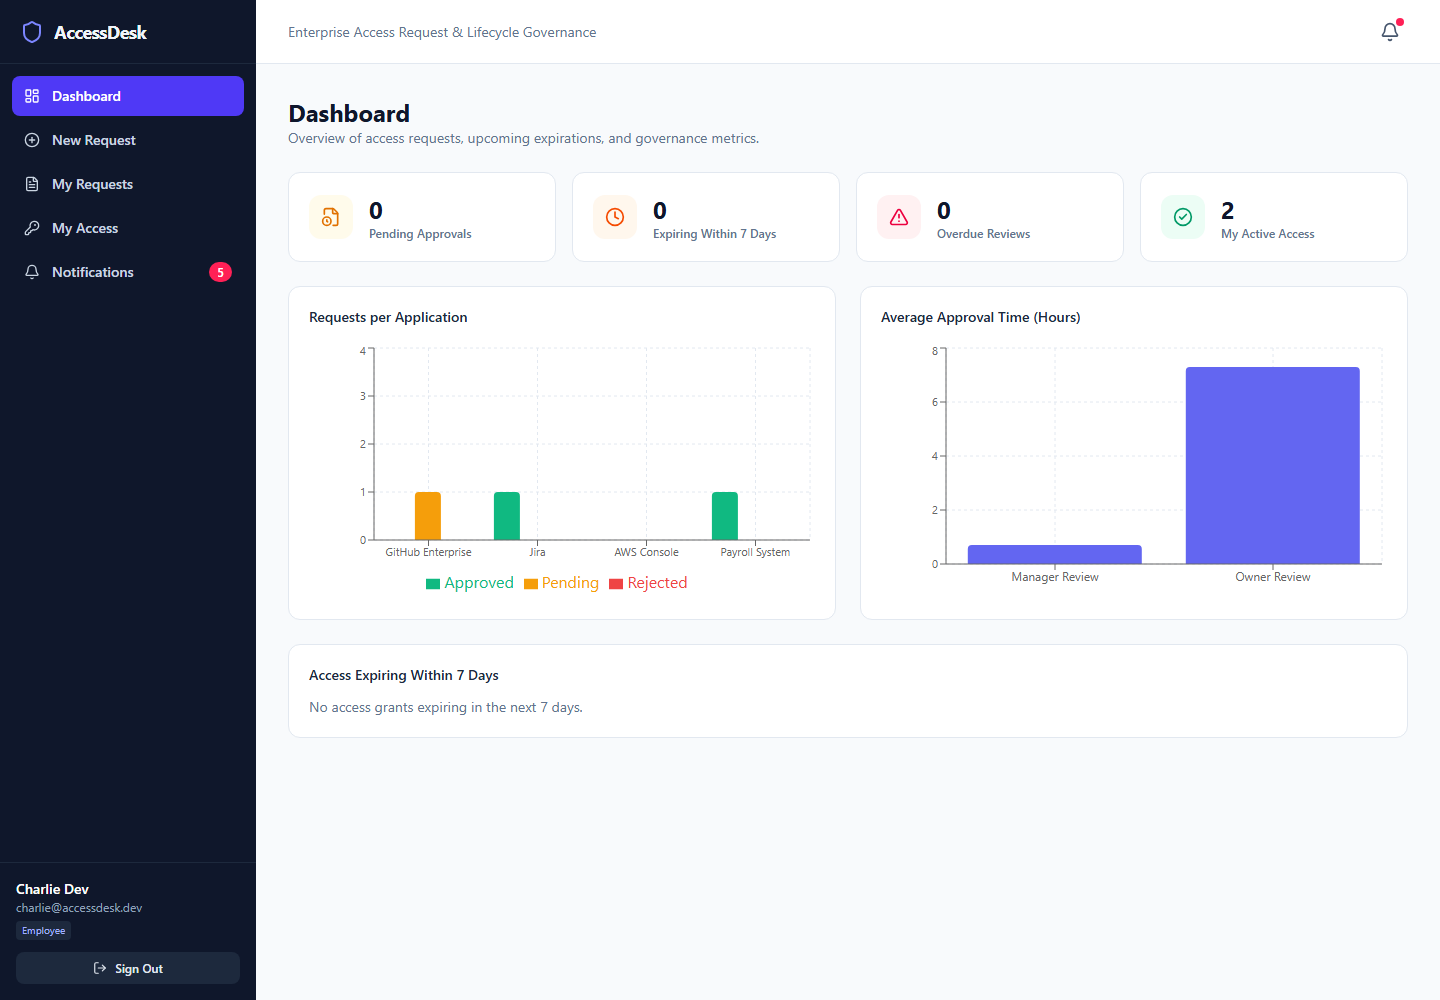
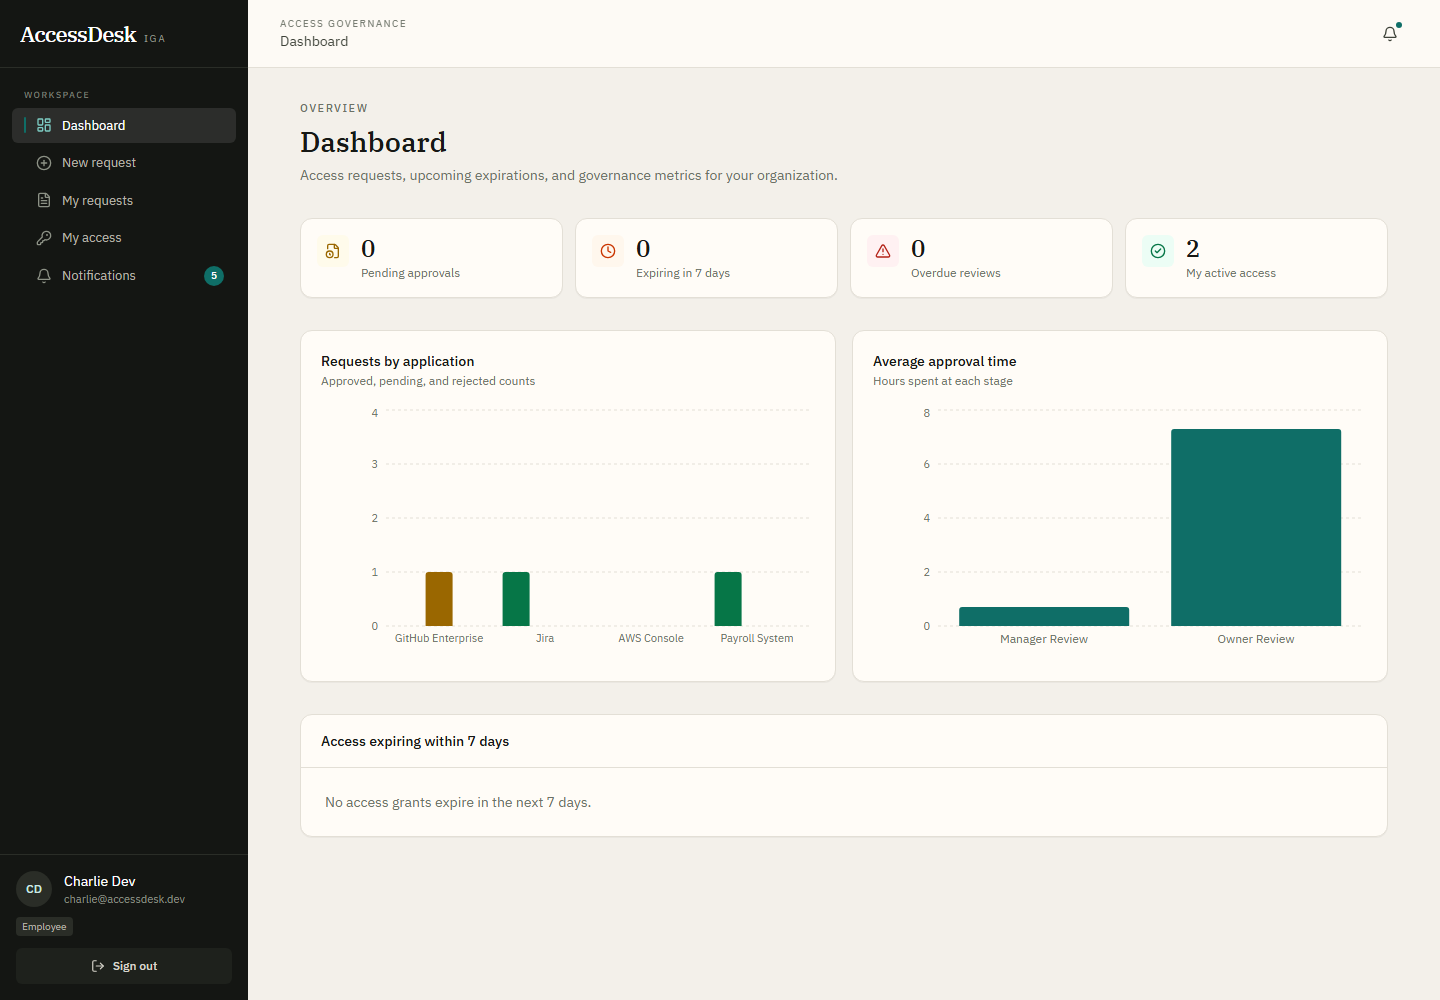
docs: publish redesigned UI screenshots and product guide

diff --git a/README.md b/README.md
@@ -2,22 +2,81 @@
 
 [![CI](https://github.com/AlyEl-Halawany/AccessDesk/actions/workflows/ci.yml/badge.svg?branch=main)](https://github.com/AlyEl-Halawany/AccessDesk/actions/workflows/ci.yml)
 
-AccessDesk is a portfolio-scale Identity Governance and Administration (IGA) app. Employees request time-bound application access; managers and application owners approve it; SoD rules, JML events, access reviews, expiry processing, and audit search govern the resulting access. It demonstrates IAM/IGA controls but does not claim regulatory compliance or production readiness.
+AccessDesk is a portfolio-scale Identity Governance and Administration (IGA) application. Employees request time-bound application access; managers and application owners approve it; SoD rules, JML events, access reviews, expiry processing, and audit search govern the resulting access.
 
-## Features
+It demonstrates IAM/IGA controls in a working .NET 10 and React stack. It does not claim regulatory compliance or production readiness.
 
-- Two-stage manager and app-owner approval, with reasons and request history.
-- Role-based authorization for Employee, Manager, AppOwner, and SecurityAdmin.
-- Blocking and review-flagging Separation of Duties rules.
-- Time-bound grants and an expiry background service.
-- Joiner, mover, and leaver workflows; leavers lose active grants and refresh sessions.
-- Access review campaigns, reviewer decisions, and notifications.
-- Read-only audit search; tracked audit updates/deletes are rejected by EF.
-- Short-lived JWTs, rotating hashed refresh tokens with replay detection, login throttling, account lockout, rowversion concurrency, ProblemDetails, and `/health`.
+## Contents
+
+- [What it does](#what-it-does)
+- [Governance concepts](#governance-concepts)
+- [Screenshots](#screenshots)
+- [Architecture](#architecture)
+- [Authentication and approval flow](#authentication-and-approval-flow)
+- [Audit and concurrency](#audit-and-concurrency)
+- [Technology stack](#technology-stack)
+- [Local setup](#local-setup)
+- [Build and tests](#build-and-tests)
+- [Design decisions](#design-decisions-and-tradeoffs)
+- [Security considerations](#security-considerations-and-future-improvements)
+- [Repository map](#repository-map)
+
+## What it does
+
+| Capability | Behavior |
+|---|---|
+| Access requests | Employees submit an application, level, duration, and justification (minimum 20 characters). |
+| Two-stage approval | Manager approval, then application-owner approval, with required rejection reasons. |
+| SoD | Blocking rules reject the submission; non-blocking rules flag it for SecurityAdmin review. |
+| Time-bound grants | Approved access expires; a background worker records expiry and notifies the user. |
+| JML | Joiners create accounts; movers reassign managers; leavers lose active grants and refresh sessions. |
+| Access reviews | SecurityAdmin launches campaigns; managers confirm or revoke assigned entitlements. |
+| Audit | SecurityAdmin searches an append-only log of security-relevant actions. |
+| Session security | Short-lived JWTs, rotating hashed refresh tokens with reuse detection, login throttling, and account lockout. |
+
+Role boundaries: **Employee** requests and views own access; **Manager** and **AppOwner** approve their steps; **SecurityAdmin** manages applications, SoD, reviews, JML, and audit search.
+
+## Governance concepts
+
+- **IAM** controls who can sign in and which roles they hold. AccessDesk uses ASP.NET Core Identity, JWTs, and role-based API policies.
+- **IGA** governs why access is needed, who approved it, how long it remains active, and whether it should be reviewed or revoked.
+- **RBAC** assigns user capabilities through Employee, Manager, AppOwner, and SecurityAdmin roles.
+- **SoD** prevents conflicting access combinations, such as administering payroll and independently auditing financial records.
+- **JML** models employee joiner, mover, and leaver changes; a leaver loses active grants and refresh sessions.
+- **Access certification** asks reviewers to confirm or revoke active entitlements on a campaign schedule.
+- **Auditability** makes security actions searchable. App paths reject ordinary audit edits/deletes, but database administrators remain trusted operators.
+
+## Screenshots
+
+Captures of the running Development UI are stored in [`docs/screenshots/`](docs/screenshots/). They were generated with Playwright against SQL Server-backed data, not mocked fixtures. Screenshots cover Employee, Manager, AppOwner, and SecurityAdmin experiences.
+
+| Screen | Screenshot |
+|---|---|
+| Login | ![Login](docs/screenshots/login.png) |
+| Dashboard | ![Dashboard](docs/screenshots/dashboard.png) |
+| New request | ![New request](docs/screenshots/new-request.png) |
+| Approval inbox | ![Approval inbox](docs/screenshots/approval-inbox.png) |
+| Application-owner inbox | ![Application-owner inbox](docs/screenshots/approval-inbox-owner.png) |
+| My access | ![My access](docs/screenshots/my-access.png) |
+| Audit log | ![Audit log](docs/screenshots/audit-log.png) |
+| Applications and SoD | ![Applications and SoD](docs/screenshots/applications.png) |
+| JML console | ![JML console](docs/screenshots/jml-console.png) |
+| Access reviews | ![Access reviews](docs/screenshots/access-reviews.png) |
+
+Recreate them after the API (`http://localhost:5201`) and Vite app (`http://localhost:5173`) are running:
+
+```powershell
+cd frontend
+npm ci
+npx playwright install chromium
+npm run capture:screenshots
+```
+
+The script signs in with Development demo accounts and writes PNG files to `docs/screenshots/`.
 
 ## Architecture
 
-Clean Architecture separates business rules from HTTP and persistence. Dependencies point inward: Application depends on Domain contracts; Infrastructure implements them; the API composes the layers. The React app uses HTTP/JWT.
+Clean Architecture keeps business rules independent of HTTP and persistence. Dependencies point inward: Application depends on Domain contracts; Infrastructure implements them; the API is the composition root. The React SPA talks to the API over HTTP with JWT bearer tokens.
 
 ```mermaid
 flowchart LR
@@ -47,7 +106,7 @@ erDiagram
   Application ||--o{ SodConflict : second_application
 ```
 
-`AccessRequest` stores the requested level, justification, duration, status, approvers/timestamps, and SQL Server `rowversion`. `RefreshToken` stores a SHA-256 digest, never the raw bearer token. Audit writes are append-only through the application path; database administrators can still directly alter rows.
+`AccessRequest` stores the requested level, justification, duration, status, approvers/timestamps, and SQL Server `rowversion`. `RefreshToken` stores a SHA-256 digest, never the raw bearer token. Audit writes are append-only through the application path; a database administrator can still alter rows directly.
 
 ## Authentication and approval flow
 
@@ -69,38 +128,19 @@ stateDiagram-v2
 
 A blocking SoD rule rejects the submission. A nonblocking rule flags it for SecurityAdmin review. The sample rule pairs Payroll Admin and Financial Audit Admin access.
 
-Controllers enforce the role boundaries: employees request/view their own access; managers and owners approve their respective steps; SecurityAdmins manage applications, SoD, audit search, access reviews, and JML events.
-
 ## Audit and concurrency
 
 Audit search is restricted to SecurityAdmin. The repository exposes add/search, the API exposes GET only, and `AccessDeskDbContext` rejects tracked updates/deletes; integration tests cover both paths. This is not immutable storage or cryptographic tamper evidence.
 
 SQL Server generates a new `rowversion` for each access-request update. A stale concurrent approval produces HTTP 409 ProblemDetails. An opt-in SQL Server test verifies the second update fails.
 
-## Screenshots
-
-Captures of the running Development app are stored in [`docs/screenshots/`](docs/screenshots/).
-
-| Screen | Screenshot |
-|---|---|
-| Login | ![Login](docs/screenshots/login.png) |
-| Dashboard | ![Dashboard](docs/screenshots/dashboard.png) |
-| New request | ![New request](docs/screenshots/new-request.png) |
-| Approval inbox | ![Approval inbox](docs/screenshots/approval-inbox.png) |
-| My access | ![My access](docs/screenshots/my-access.png) |
-| Audit log | ![Audit log](docs/screenshots/audit-log.png) |
-| JML console | ![JML console](docs/screenshots/jml-console.png) |
-| Access reviews | ![Access reviews](docs/screenshots/access-reviews.png) |
-
-To recreate these genuine screenshots after starting the API and Vite app, install frontend dependencies and run `npm run capture:screenshots` from `frontend/`. The script signs in with the Development demo accounts and writes to `docs/screenshots/`.
-
 ## Technology stack
 
-- **Backend:** ASP.NET Core/.NET 10, C#, EF Core 10.0.13, SQL Server.
-- **Application:** MediatR 12.4.1, FluentValidation 11.11, Serilog, ASP.NET Core Identity, JWT bearer, MailKit 5.
-- **Frontend:** React 19, TypeScript 7, Vite 8, React Router 7, TanStack Query 5, Tailwind 4, Recharts 3.
+- **Backend:** ASP.NET Core / .NET 10, C# (nullable enabled), EF Core 10.0.13, SQL Server, ASP.NET Core Identity.
+- **Application:** MediatR 12.4.1, FluentValidation 11.11, Serilog, JWT bearer, MailKit 5.
+- **Frontend:** React 19, TypeScript 7, Vite 8, React Router 7, TanStack Query 5, Tailwind 4, Recharts 3, Lucide icons.
 - **Tests:** xUnit 2, Moq, FluentAssertions, WebApplicationFactory, EF InMemory; opt-in SQL Server concurrency test.
-- **Tooling:** local `dotnet-ef` 10.0.13, Docker Compose, GitHub Actions (.NET 10, Node 22).
+- **Tooling:** local `dotnet-ef` 10.0.13, Docker Compose, GitHub Actions (.NET 10, Node 22), Playwright screenshot capture.
 
 ## Local setup
 
@@ -108,7 +148,7 @@ Prerequisites: .NET 10 SDK, Node.js LTS/npm, and SQL Server Express/LocalDB (or 
 
 ### Configure database and JWT
 
-The ignored Development settings file `src/AccessDesk.Api/appsettings.Development.json` uses `localhost\SQLEXPRESS`. Change `ConnectionStrings:DefaultConnection` there or set `ConnectionStrings__DefaultConnection` using environment/user-secrets. Example:
+The ignored Development settings file `src/AccessDesk.Api/appsettings.Development.json` uses `localhost\SQLEXPRESS`. Change `ConnectionStrings:DefaultConnection` there or set `ConnectionStrings__DefaultConnection`. Example:
 
 ```text
 Server=localhost\SQLEXPRESS;Database=AccessDeskDb;Trusted_Connection=True;MultipleActiveResultSets=true;TrustServerCertificate=True
@@ -129,7 +169,7 @@ dotnet ef database update --project src/AccessDesk.Infrastructure --startup-proj
 dotnet run --project src/AccessDesk.Api --launch-profile http
 ```
 
-The API listens at `http://localhost:5201`; Swagger is `/swagger`, health is `/health`. Startup migrates in non-Testing environments and seeds demo data only in Development.
+The API listens at `http://localhost:5201`. Swagger is `/swagger`, health is `/health`. Startup migrates in non-Testing environments and seeds demo data only in Development.
 
 ### Run the frontend
 
@@ -156,7 +196,7 @@ Compose exposes frontend `http://localhost:3000`, API `http://localhost:5000`, S
 
 ### Development demo accounts
 
-These accounts are seeded only in Development; never reuse their passwords.
+These accounts are seeded only in Development. Do not reuse their passwords elsewhere.
 
 | Role | Email | Password |
 |---|---|---|
@@ -167,6 +207,8 @@ These accounts are seeded only in Development; never reuse their passwords.
 | Employee | `diana@accessdesk.dev` | `Employee@123!` |
 | Employee | `evan@accessdesk.dev` | `Employee@123!` |
 
+The login page can fill these accounts for local walkthroughs.
+
 ## Build and tests
 
 ```bash
@@ -175,7 +217,7 @@ dotnet test AccessDesk.slnx
 cd frontend && npm ci && npm run build
 ```
 
-The normal API integration tests use EF InMemory. For the SQL Server rowversion test, set `ACCESSDESK_SQLSERVER_CONNECTION` and run:
+The default API integration tests use EF InMemory. For the SQL Server rowversion test, set `ACCESSDESK_SQLSERVER_CONNECTION` and run:
 
 ```powershell
 $env:ACCESSDESK_SQLSERVER_CONNECTION = "Server=localhost\SQLEXPRESS;Database=AccessDeskDb;Trusted_Connection=True;TrustServerCertificate=True"
@@ -194,4 +236,23 @@ dotnet test tests/AccessDesk.IntegrationTests/AccessDesk.IntegrationTests.csproj
 
 This is a learning project, not a production deployment. Production use would need external identity/MFA, managed secrets, operational monitoring, backup and retention policies, database-level immutable audit storage, and an HRIS integration. SMTP is local MailHog; campaign persistence succeeds even when SMTP is unavailable.
 
+Access JWTs are stateless and remain usable until their short expiry even after refresh-token revocation or leaver processing.
+
 Future work: OIDC/Entra sign-in, durable expiry scheduling and delivery retries, SQL integration tests in CI, browser end-to-end tests in CI, tenant-aware administration, and immutable external audit retention.
+
+## Repository map
+
+| Path | Role |
+|---|---|
+| `src/AccessDesk.Domain/` | Entities, enums, state transitions, repository contracts |
+| `src/AccessDesk.Application/` | MediatR use cases, validators, pipeline behavior |
+| `src/AccessDesk.Infrastructure/` | EF mappings/migrations, Identity/JWT/mail, expiry worker |
+| `src/AccessDesk.Api/` | Controllers, auth policy, middleware, composition root |
+| `tests/` | Unit tests and WebApplicationFactory integration tests |
+| `frontend/` | React SPA |
+| `frontend/capture-screenshots.mjs` | Playwright captures for README images |
+| `docs/screenshots/` | Login, dashboard, request, manager/owner approvals, access, apps/SoD, audit, JML, reviews |
+| `.github/workflows/ci.yml` | Backend build/tests and frontend production build |
+| `HANDOFF.md` | Session status, verification, and known blockers |
+
+Additional notes: [`DEVLOG.md`](DEVLOG.md), [`KNOWN_ISSUES.md`](KNOWN_ISSUES.md), [`INTERVIEW_NOTES.md`](INTERVIEW_NOTES.md), [`AGENTS.md`](AGENTS.md).

diff --git a/HANDOFF.md b/HANDOFF.md
@@ -10,6 +10,8 @@
 - **DONE** — EF rejects tracked AuditLog updates/deletes and integration coverage proves both; audit API/repository surface is read-only.
 - **DONE** — Unit tests (21), integration tests (10 with SQL Server opt-in enabled), and frontend production build pass on 2026-11-28.
 - **DONE** — Playwright captured genuine Development UI screenshots in `docs/screenshots/`; `frontend/capture-screenshots.mjs` recreates them.
+- **DONE** — Frontend screens now share a restrained paper/charcoal/teal design system, grouped role-aware navigation, consistent page headers/forms/tables, and visible keyboard focus styling.
+- **DONE** — Playwright captured ten final desktop views across Employee, Manager, AppOwner, and SecurityAdmin. Mobile checks at 390px showed no horizontal page overflow on login, dashboard, request form/list, or access page; the menu opens correctly.
 - **DONE** — README, AGENTS, interview notes, development log, known issues, MIT license, and CI build badge are present/current.
 - **PARTIAL** — GitHub CI workflow is configured for .NET 10 and Node 22, but latest run status could not be checked because `gh` authentication is invalid.
 - **PARTIAL** — GitHub topics and repository description are not set; `gh auth status` reports an invalid token for `AlyEl-Halawany`.
@@ -40,7 +42,8 @@ Authenticate the GitHub CLI (`gh auth login -h github.com`), then verify the lat
 - `dotnet test AccessDesk.slnx --no-build` with `ACCESSDESK_SQLSERVER_CONNECTION` configured: 21 unit and 10 integration tests passed; SQL Server concurrency test ran (not skipped).
 - `dotnet list AccessDesk.slnx package --vulnerable --include-transitive`: no vulnerable packages reported.
 - `npm run build`: success; Vite chunk-size advisory noted above.
-- `npm run capture:screenshots`: captured login, dashboard, new request, approval inbox, my access, audit log, JML console, and access reviews against the local running app and SQL Server.
+- `npm run capture:screenshots`: captured login, dashboard, new request, manager and owner inboxes, my access, audit log, applications/SoD, JML console, and access reviews against the local running app and SQL Server.
+- Mobile Playwright check at 390px: login and employee pages had `scrollWidth=390`; role-aware mobile navigation opened.
 - Development connection string is in ignored `src/AccessDesk.Api/appsettings.Development.json`; it targets `localhost\SQLEXPRESS`. Signing key for screenshot run was an ephemeral environment variable and was not committed.
 
 ## Repository map
